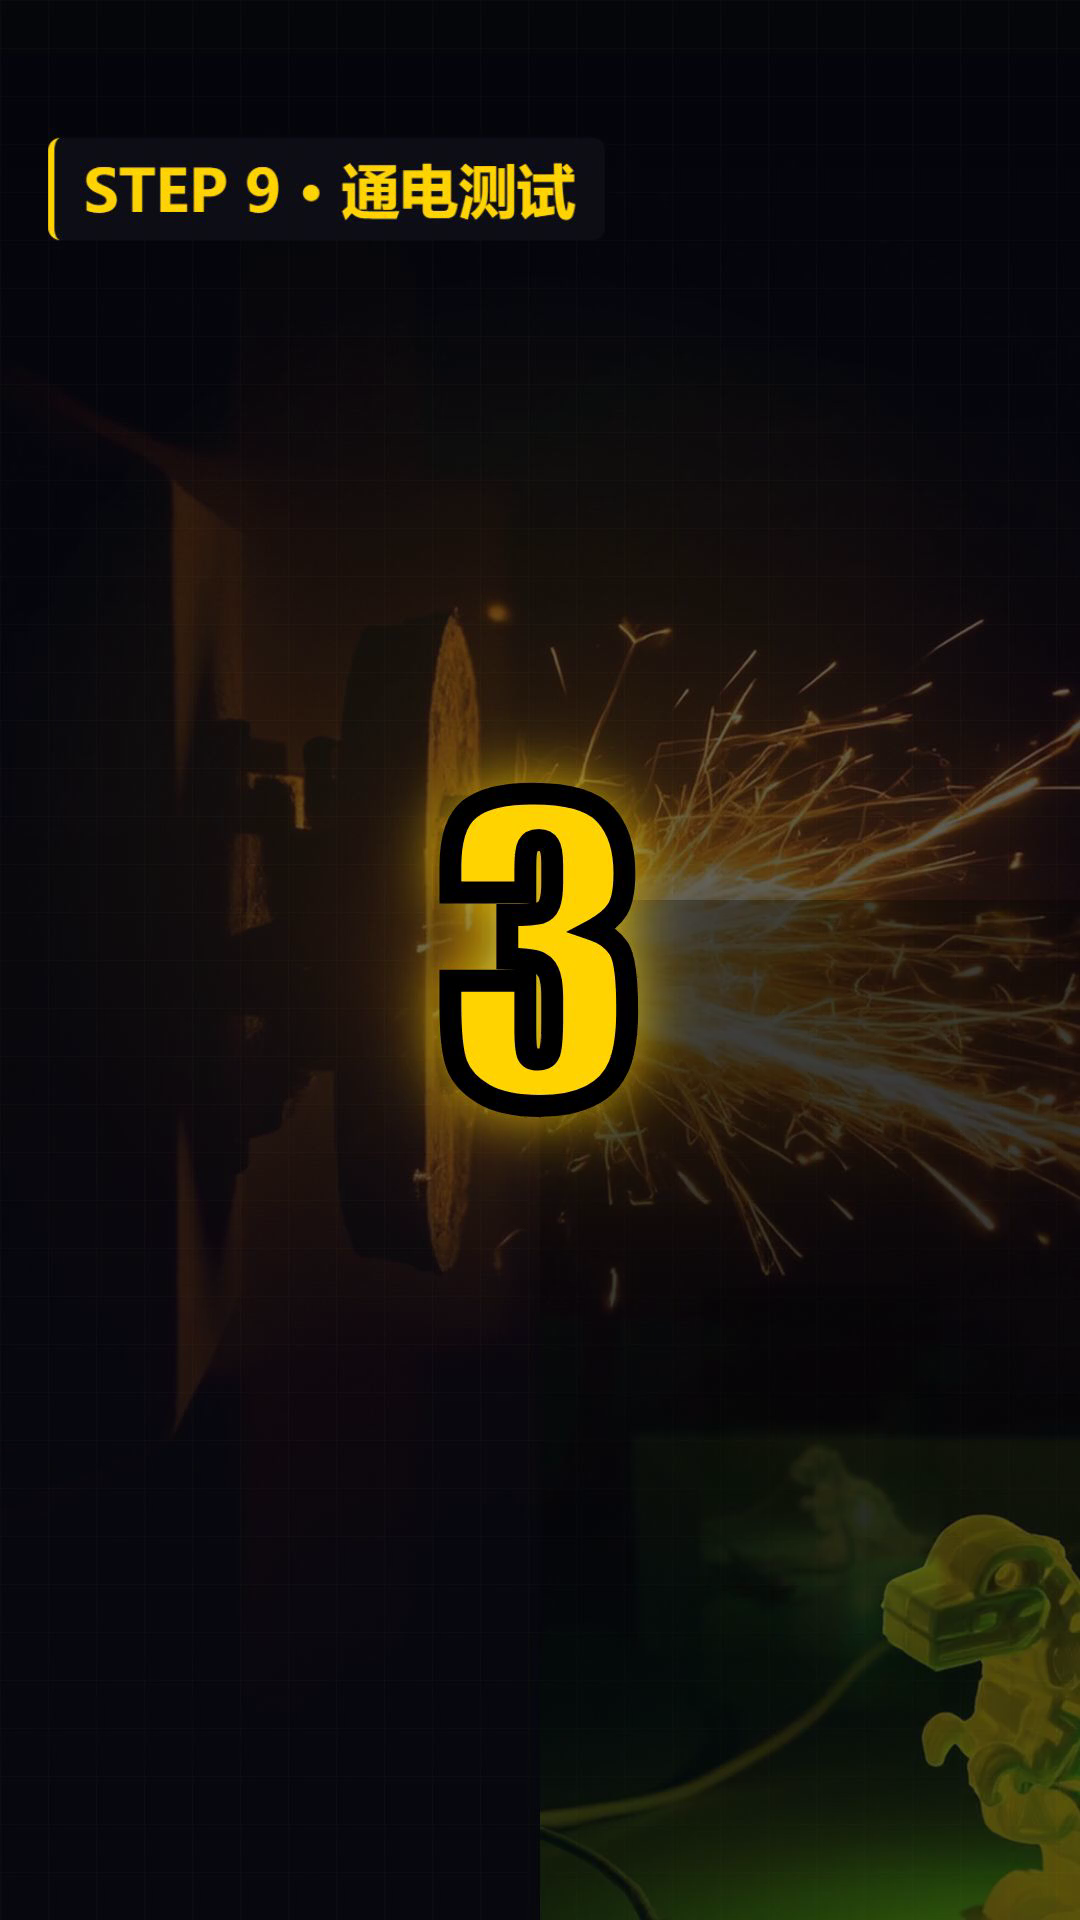
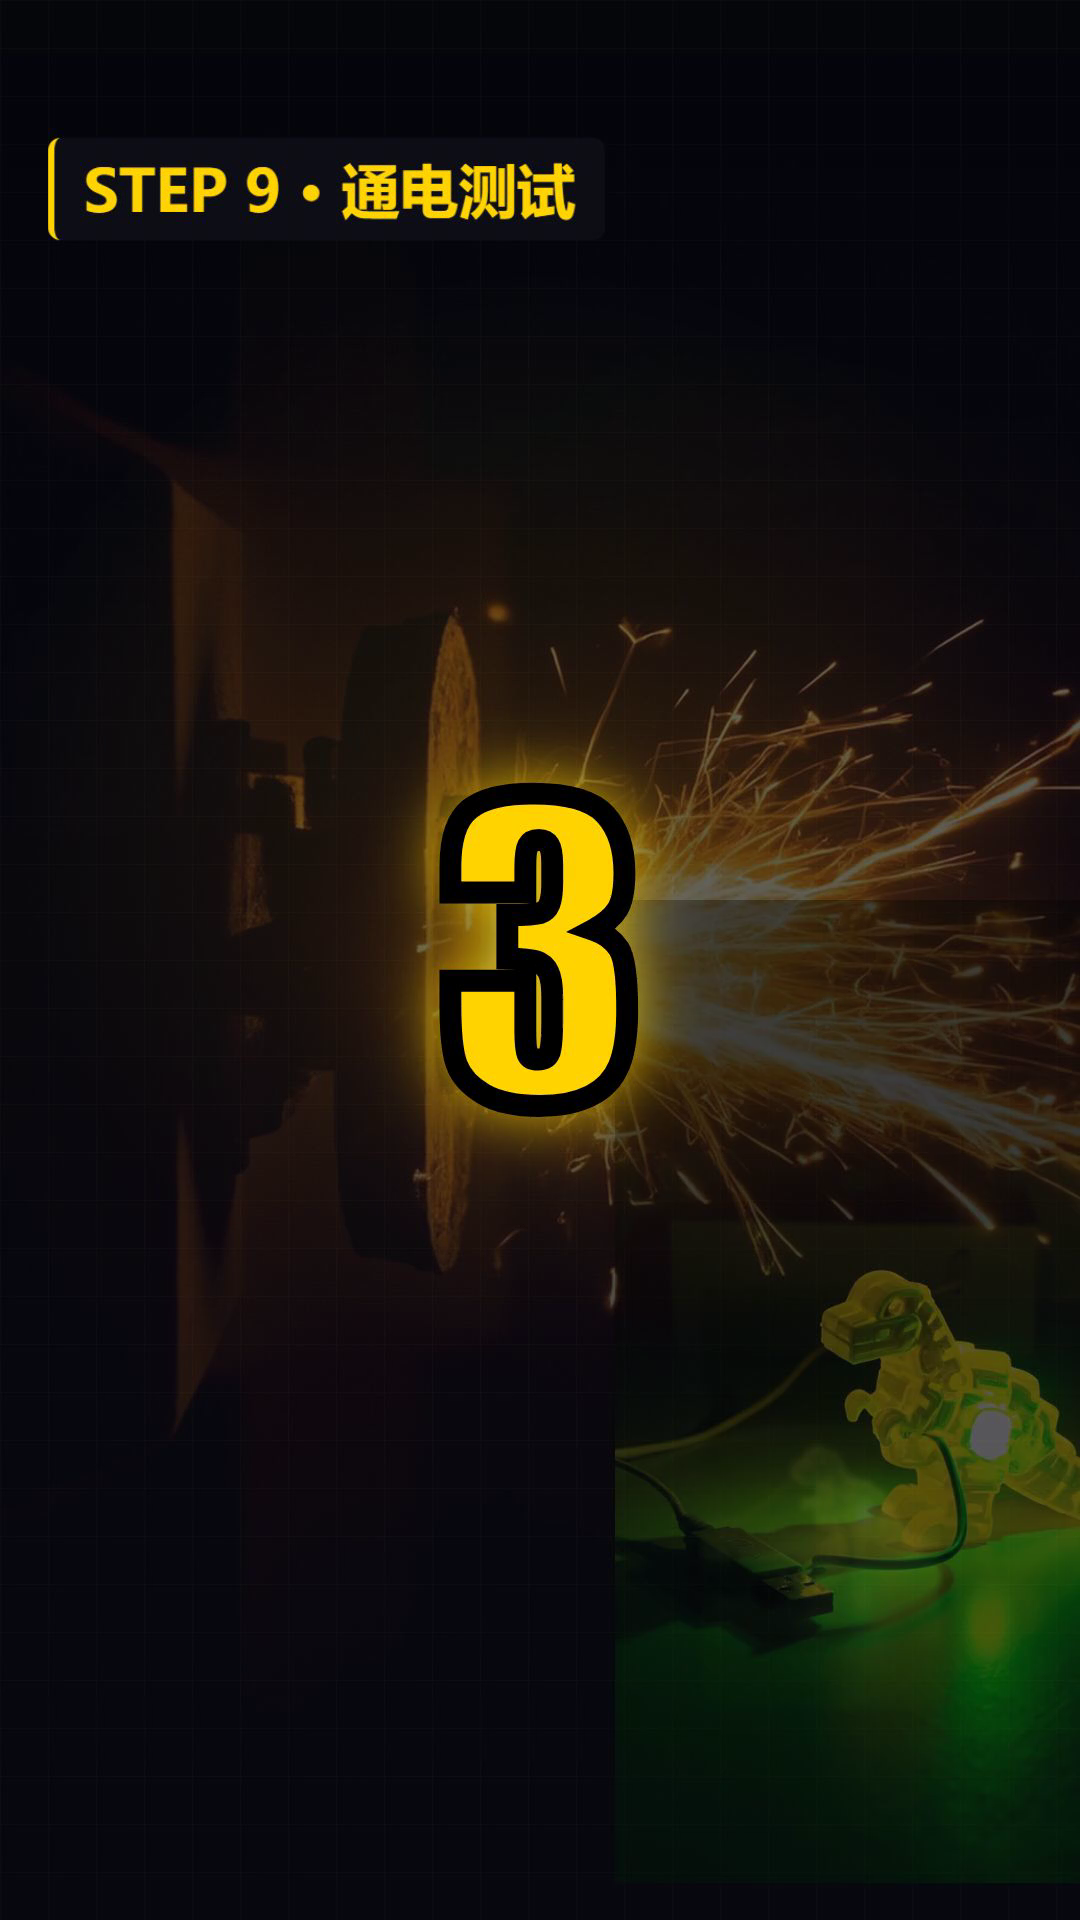
v7: Cap hero image height at 1180 to prevent caption overlap

Changed region(s): [[0.4889, 0.6562, 1.0, 1.0], [0.6111, 0.9062, 0.7333, 0.9375]]

diff --git a/src/data.ts b/src/data.ts
@@ -66,7 +66,7 @@ export const SCENES: SceneDef[] = [
     elements: [
       { id: "headline", kind: "title", entrance: "spring-rise", delay: 0, text: "一节课打印", textColor: "#FFD400", textSize: 130, highlight: true, x: "50%", y: 380 },
       { id: "headline-2", kind: "title", entrance: "spring-rise", delay: 6, text: "只活恐龙", textColor: "#FFD400", textSize: 130, highlight: true, x: "50%", y: 540 },
-      { id: "dino", kind: "image", src: "illustrations/01_hook.png", entrance: "axial-flyin", delay: 14, scale: 1.0, x: "50%", y: 1150 },
+      { id: "dino", kind: "image", src: "illustrations/01_hook.png", entrance: "axial-flyin", delay: 14, scale: 0.7, x: "50%", y: 1150 },
       { id: "cap", kind: "label", entrance: "fade", delay: 30, text: "全班同学都看呆了，点击看完整实验", textColor: "#FFD400", textSize: 52, x: "50%", y: 1700 },
     ],
     bgmBeatAt: 30,
@@ -107,7 +107,7 @@ export const SCENES: SceneDef[] = [
     stepLabel: { en: "STEP 2", cn: "三维建模" },
     elements: [
       { id: "step", kind: "step", entrance: "spring-pop", delay: 0, text: "STEP 2 · 三维建模", textColor: "#FFD400", textSize: 56 },
-      { id: "head", kind: "image", src: "illustrations/03_model.png", entrance: "axial-flyin", delay: 6, scale: 0.85, x: 540, y: 850 },
+      { id: "head", kind: "image", src: "illustrations/03_model.png", entrance: "axial-flyin", delay: 6, scale: 0.65, x: 540, y: 850 },
       { id: "lbl-head", kind: "label", entrance: "spring-rise", delay: 22, text: "头部", textColor: "#FFD400", textSize: 60, x: 540, y: 380 },
       { id: "lbl-body", kind: "label", entrance: "spring-rise", delay: 30, text: "躯干", textColor: "#FFD400", textSize: 60, x: 540, y: 1000 },
       { id: "lbl-tail", kind: "label", entrance: "spring-rise", delay: 38, text: "尾巴", textColor: "#FFD400", textSize: 60, x: 540, y: 1280 },
@@ -131,7 +131,7 @@ export const SCENES: SceneDef[] = [
     stepLabel: { en: "STEP 3", cn: "切片路径" },
     elements: [
       { id: "step", kind: "step", entrance: "spring-pop", delay: 0, text: "STEP 3 · 切片路径", textColor: "#FFD400", textSize: 56 },
-      { id: "screen", kind: "image", src: "illustrations/04_slice.png", entrance: "axial-flyin", delay: 8, scale: 0.85, x: 540, y: 900 },
+      { id: "screen", kind: "image", src: "illustrations/04_slice.png", entrance: "axial-flyin", delay: 8, scale: 0.65, x: 540, y: 900 },
       { id: "layers", kind: "line", entrance: "sweep", delay: 22 },
       { id: "info", kind: "label", entrance: "spring-rise", delay: 44, text: "200 层路径", textColor: "#FFD400", textSize: 86, highlight: true, x: 540, y: 1480 },
       { id: "cap", kind: "label", entrance: "fade", delay: 56, text: "层层堆叠成型", textColor: "#FFFFFF", textSize: 50, x: 540, y: 1700 },
@@ -151,7 +151,7 @@ export const SCENES: SceneDef[] = [
     stepLabel: { en: "STEP 4", cn: "开始打印" },
     elements: [
       { id: "step", kind: "step", entrance: "spring-pop", delay: 0, text: "STEP 4 · 开始打印", textColor: "#FFD400", textSize: 56 },
-      { id: "printer", kind: "image", src: "illustrations/05_print.png", entrance: "axial-flyin", delay: 8, scale: 0.95, x: 540, y: 900 },
+      { id: "printer", kind: "image", src: "illustrations/05_print.png", entrance: "axial-flyin", delay: 8, scale: 0.655, x: 540, y: 900 },
       { id: "progress-bar", kind: "line", entrance: "sweep", delay: 38 },
       { id: "progress", kind: "label", entrance: "spring-pop", delay: 50, text: "78%", textColor: "#FFD400", textSize: 96, highlight: true, x: 540, y: 1480 },
       { id: "cap", kind: "label", entrance: "fade", delay: 60, text: "塑料一秒秒堆出来", textColor: "#FFFFFF", textSize: 50, x: 540, y: 1700 },
@@ -171,7 +171,7 @@ export const SCENES: SceneDef[] = [
     stepLabel: { en: "STEP 5", cn: "逐层堆叠" },
     elements: [
       { id: "step", kind: "step", entrance: "spring-pop", delay: 0, text: "STEP 5 · 逐层堆叠", textColor: "#FFD400", textSize: 56 },
-      { id: "layer-img", kind: "image", src: "illustrations/06_layer.png", entrance: "axial-flyin", delay: 8, scale: 0.9, x: 540, y: 900 },
+      { id: "layer-img", kind: "image", src: "illustrations/06_layer.png", entrance: "axial-flyin", delay: 8, scale: 0.65, x: 540, y: 900 },
       { id: "layers", kind: "line", entrance: "sweep", delay: 22 },
       { id: "layer-count", kind: "label", entrance: "spring-pop", delay: 44, text: "120 层", textColor: "#FFD400", textSize: 96, highlight: true, x: 540, y: 1480 },
       { id: "cap", kind: "label", entrance: "fade", delay: 56, text: "肉眼可见在堆高", textColor: "#FFFFFF", textSize: 50, x: 540, y: 1700 },
@@ -191,7 +191,7 @@ export const SCENES: SceneDef[] = [
     stepLabel: { en: "STEP 6", cn: "取下成品" },
     elements: [
       { id: "step", kind: "step", entrance: "spring-pop", delay: 0, text: "STEP 6 · 取下成品", textColor: "#FFD400", textSize: 56 },
-      { id: "part", kind: "image", src: "illustrations/07_remove.png", entrance: "axial-flyin", delay: 8, scale: 0.85, x: 540, y: 880 },
+      { id: "part", kind: "image", src: "illustrations/07_remove.png", entrance: "axial-flyin", delay: 8, scale: 0.65, x: 540, y: 880 },
       { id: "grip", kind: "line", entrance: "sweep", delay: 22 },
       { id: "twist", kind: "line", entrance: "sweep", delay: 34 },
       { id: "check", kind: "label", entrance: "spring-pop", delay: 52, text: "完成", textColor: "#FFD400", textSize: 96, highlight: true, x: 540, y: 1480 },
@@ -213,7 +213,7 @@ export const SCENES: SceneDef[] = [
     stepLabel: { en: "STEP 7", cn: "安装舵机" },
     elements: [
       { id: "step", kind: "step", entrance: "spring-pop", delay: 0, text: "STEP 7 · 安装舵机", textColor: "#FFD400", textSize: 56 },
-      { id: "dino-body", kind: "image", src: "illustrations/08_servo.png", entrance: "fade", delay: 8, scale: 0.85, x: 540, y: 880 },
+      { id: "dino-body", kind: "image", src: "illustrations/08_servo.png", entrance: "fade", delay: 8, scale: 0.65, x: 540, y: 880 },
       { id: "servo", kind: "image", src: "illustrations/_aux_servo.png", entrance: "axial-flyin", delay: 22, scale: 0.4, x: 200, y: 480 },
       { id: "wire-1", kind: "line", entrance: "sweep", delay: 36 },
       { id: "wire-2", kind: "line", entrance: "sweep", delay: 42 },
@@ -239,7 +239,7 @@ export const SCENES: SceneDef[] = [
     stepLabel: { en: "STEP 8", cn: "写控制代码" },
     elements: [
       { id: "step", kind: "step", entrance: "spring-pop", delay: 0, text: "STEP 8 · 写控制代码", textColor: "#FFD400", textSize: 56 },
-      { id: "screen", kind: "image", src: "illustrations/09_code.png", entrance: "fade", delay: 6, scale: 0.78, x: 540, y: 820 },
+      { id: "screen", kind: "image", src: "illustrations/09_code.png", entrance: "fade", delay: 6, scale: 0.62, x: 540, y: 820 },
       { id: "line-1", kind: "line", entrance: "sweep", delay: 20 },
       { id: "line-2", kind: "line", entrance: "sweep", delay: 28 },
       { id: "line-3", kind: "line", entrance: "sweep", delay: 36 },
@@ -263,7 +263,7 @@ export const SCENES: SceneDef[] = [
     sceneType: "Power",
     elements: [
       { id: "step", kind: "step", entrance: "spring-pop", delay: 0, text: "STEP 9 · 通电测试", textColor: "#FFD400", textSize: 56 },
-      { id: "dino-off", kind: "image", src: "illustrations/10_power.png", entrance: "fade", delay: 6, scale: 0.85, x: 540, y: 900 },
+      { id: "dino-off", kind: "image", src: "illustrations/10_power.png", entrance: "fade", delay: 6, scale: 0.65, x: 540, y: 900 },
       { id: "counter", kind: "line", entrance: "sweep", delay: 16 },
       { id: "zap", kind: "line", entrance: "shutter", delay: 80 },
       { id: "cap", kind: "label", entrance: "fade", delay: 30, text: "尾巴立刻晃", textColor: "#FFFFFF", textSize: 50, x: 540, y: 1700 },
@@ -282,7 +282,7 @@ export const SCENES: SceneDef[] = [
   { key: "11_demo", text: "摆在桌上，冲你摇头摆尾。", emphasis: ["摇头摆尾"], voiceSec: 2.80, minDur: 3.5, style: "Caption",
     sceneType: "Demo",
     elements: [
-      { id: "dino", kind: "image", src: "illustrations/11_demo.png", entrance: "spring-rise", delay: 0, scale: 0.95, x: 540, y: 880 },
+      { id: "dino", kind: "image", src: "illustrations/11_demo.png", entrance: "spring-rise", delay: 0, scale: 0.655, x: 540, y: 880 },
       { id: "tail", kind: "line", entrance: "sweep", delay: 12 },
       { id: "head", kind: "line", entrance: "sweep", delay: 20 },
       { id: "tag", kind: "label", entrance: "spring-pop", delay: 30, text: "好可爱", textColor: "#FFD400", textSize: 110, highlight: true, x: 540, y: 1500 },
@@ -301,7 +301,7 @@ export const SCENES: SceneDef[] = [
   { key: "12_roar", text: "按下遥控，一声吼叫，全班都围过来。", emphasis: ["吼叫", "全班围过来"], voiceSec: 3.50, minDur: 5.5, style: "Caption",
     sceneType: "Roar",
     elements: [
-      { id: "dino", kind: "image", src: "illustrations/12_roar.png", entrance: "spring-rise", delay: 0, scale: 0.95, x: 540, y: 880 },
+      { id: "dino", kind: "image", src: "illustrations/12_roar.png", entrance: "spring-rise", delay: 0, scale: 0.655, x: 540, y: 880 },
       { id: "roar", kind: "line", entrance: "sweep", delay: 12 },
       { id: "wave", kind: "line", entrance: "sweep", delay: 22 },
       { id: "people", kind: "line", entrance: "sweep", delay: 36 },

diff --git a/src/components/ElementRenderer.tsx b/src/components/ElementRenderer.tsx
@@ -119,7 +119,9 @@ export const ElementRenderer: React.FC<Props> = ({ el, frame }) => {
     }
 
     case "image": {
-      const w = (el.w ? el.w : 1080 * (el.scale || 0.65));
+      // 主图上限：宽度按 scale，高度按 9:16 比例自动算，但 hard cap 1080 防溢出
+      const w = (el.w ? el.w : Math.min(1080 * (el.scale || 0.65), 1000));
+      const h = el.h ? el.h : Math.min(w * 1.4, 1180);  // max height 1180，留出 y=200..1380 主体区
       // Post-entrance: subtle pulse/sway
       const entranceT = (f - el.delay) / 12;
       const postEntrance = entranceT > 1;
@@ -132,9 +134,11 @@ export const ElementRenderer: React.FC<Props> = ({ el, frame }) => {
             ...baseStyle,
             transform: combinedTransform,
             width: typeof w === "number" ? w : undefined,
+            height: h,
             display: "flex",
             justifyContent: "center",
             alignItems: "center",
+            overflow: "hidden",
           }}
         >
           <Img
